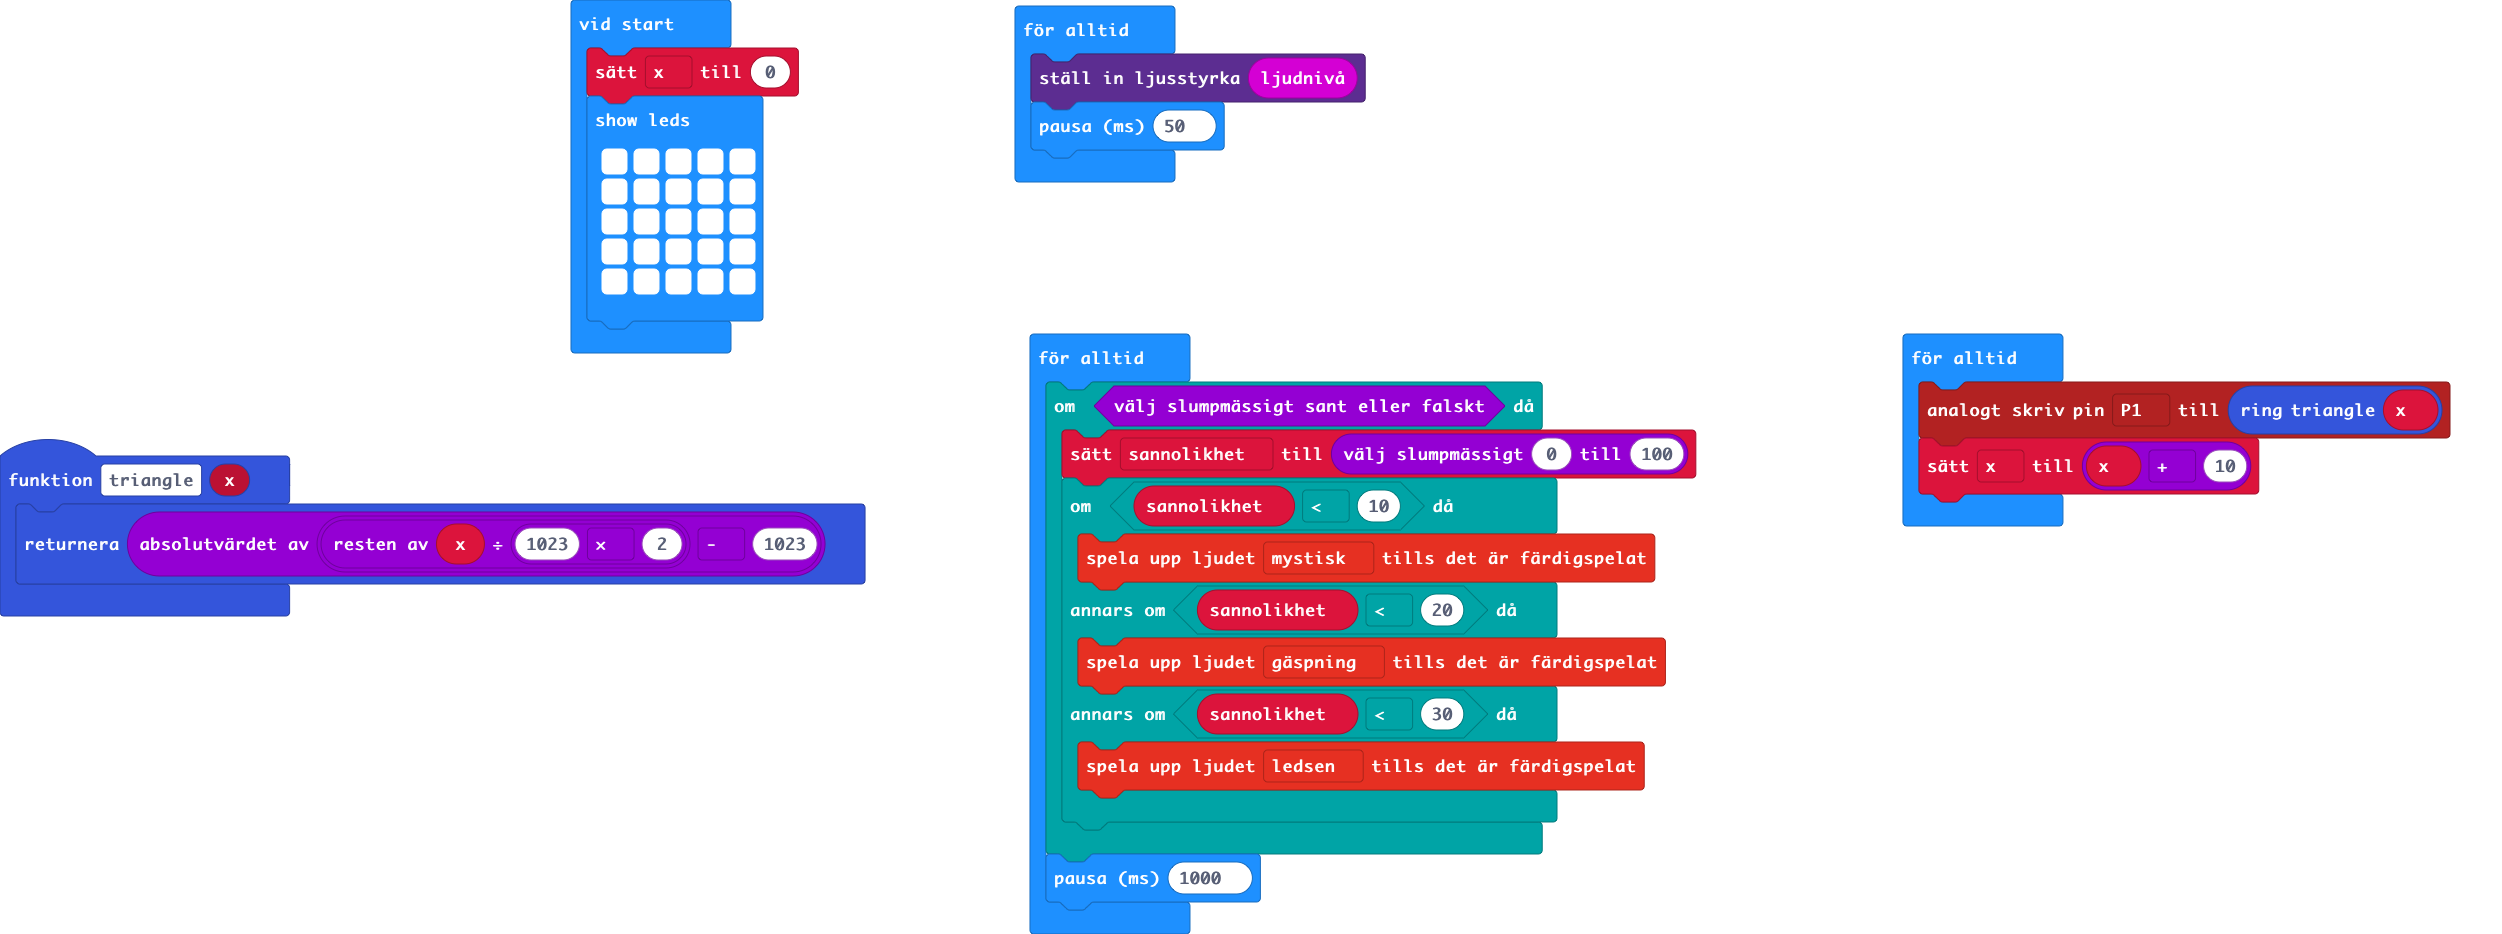
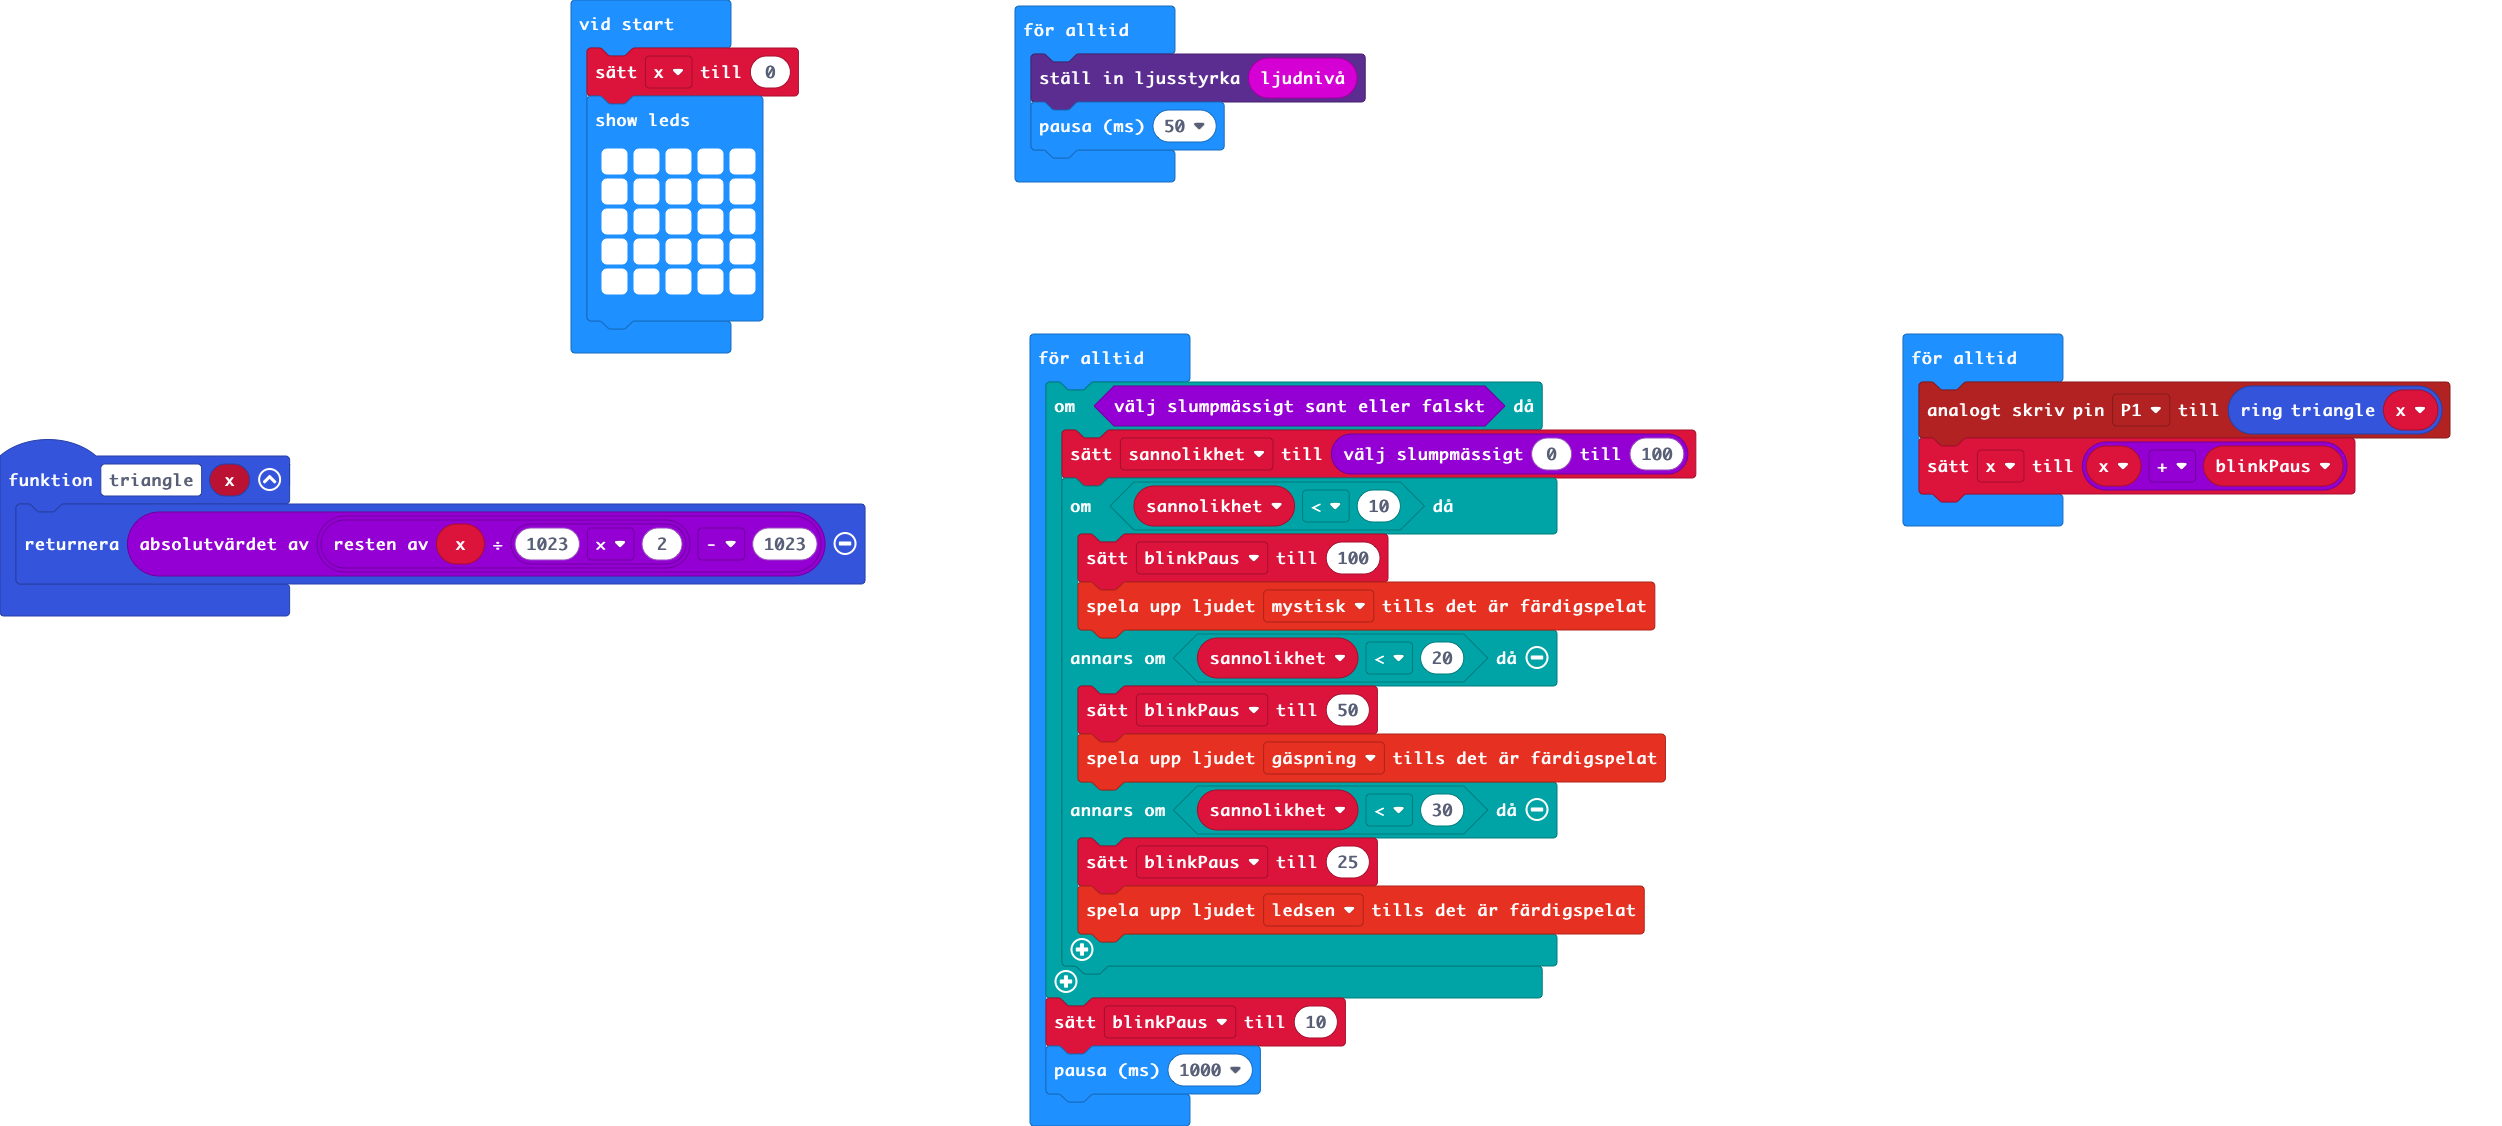
Uppdatera main.blocks, main.ts

diff --git a/main.ts b/main.ts
@@ -1,6 +1,7 @@
 function triangle (x: number) {
     return Math.abs(x % (1023 * 2) - 1023)
 }
+let blinkPaus = 0
 let sannolikhet = 0
 let x = 0
 basic.showLeds(`
@@ -18,16 +19,20 @@ basic.forever(function () {
     if (Math.randomBoolean()) {
         sannolikhet = randint(0, 100)
         if (sannolikhet < 10) {
+            blinkPaus = 100
             soundExpression.mysterious.playUntilDone()
         } else if (sannolikhet < 20) {
+            blinkPaus = 50
             soundExpression.yawn.playUntilDone()
         } else if (sannolikhet < 30) {
+            blinkPaus = 25
             soundExpression.sad.playUntilDone()
         }
     }
+    blinkPaus = 10
     basic.pause(1000)
 })
 basic.forever(function () {
     pins.analogWritePin(AnalogPin.P1, triangle(x))
-    x = x + 10
+    x = x + blinkPaus
 })
